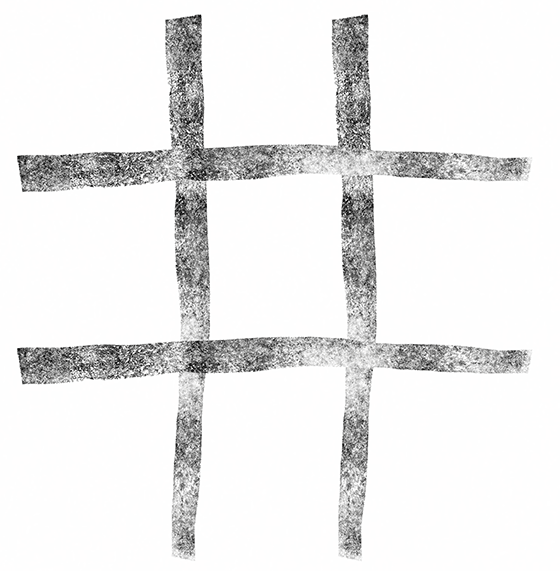
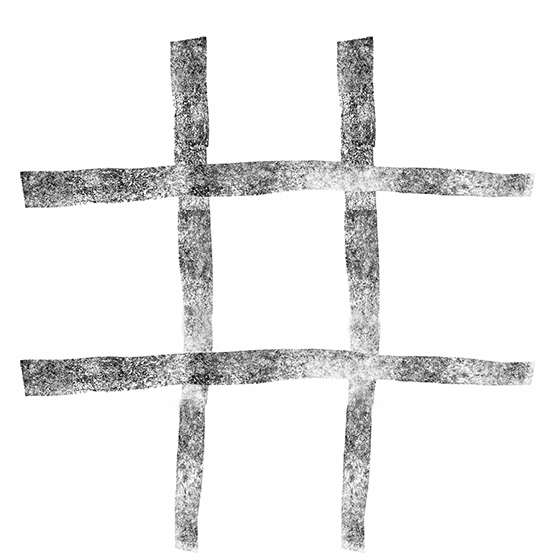
now player can add X in the selected cell

Changed region(s): [[0.0304, 0.0, 0.9714, 1.0]]

diff --git a/assets/js/play.js b/assets/js/play.js
@@ -1,64 +1,104 @@
 /* globals game */
 
+// let playState = {
+//   create () {
+//     // set game background image
+//     this.levelBackground = game.add.sprite(0, 0, 'levelBackground')
+//
+//     // mouse events
+//     game.input.mouse.capture = true
+//   },
+//   update () {
+//     if (game.input.activePointer.leftButton.isDown) {
+//       // first row, first cell
+//       if (game.input.mousePointer.x < 200 && game.input.mousePointer.y < 200) {
+//         this.createX(100, 100)
+//       }
+//
+//       // first row, second cell
+//       if ((game.input.mousePointer.x > 200 && game.input.mousePointer.x < 400) && game.input.mousePointer.y < 200) {
+//         this.createX(270, 100)
+//       }
+//
+//       // first row, second cell
+//       if ((game.input.mousePointer.x > 400 && game.input.mousePointer.x < 600) && game.input.mousePointer.y < 200) {
+//         this.createX(470, 100)
+//       }
+//
+//       // second row, first cell
+//       if ((game.input.mousePointer.x < 200) && (game.input.mousePointer.y > 200 && game.input.mousePointer.y < 400)) {
+//         this.createX(100, 260)
+//       }
+//
+//       // second row, second cell
+//       if ((game.input.mousePointer.x > 200 && game.input.mousePointer.x < 400) && (game.input.mousePointer.y > 200 && game.input.mousePointer.y < 400)) {
+//         this.createX(260, 270)
+//       }
+//
+//       // second row, third cell
+//       if ((game.input.mousePointer.x > 400 && game.input.mousePointer.x < 600) && (game.input.mousePointer.y > 200 && game.input.mousePointer.y < 400)) {
+//         this.createX(440, 275)
+//       }
+//
+//       // third row, third cell
+//       if ((game.input.mousePointer.x < 200) && (game.input.mousePointer.y > 400 && game.input.mousePointer.y < 600)) {
+//         this.createX(100, 470)
+//       }
+//
+//       // third row, second cell
+//       if ((game.input.mousePointer.x > 200 && game.input.mousePointer.x < 400) && (game.input.mousePointer.y > 400 && game.input.mousePointer.y < 600)) {
+//         this.createX(260, 455)
+//       }
+//
+//       // third row, third cell
+//       if ((game.input.mousePointer.x > 400 && game.input.mousePointer.x < 600) && (game.input.mousePointer.y > 400 && game.input.mousePointer.y < 600)) {
+//         this.createX(460, 475)
+//       }
+//     }
+//   },
+//   // x and y coordinates of mouse pointer
+//   createX (x, y) {
+//     this.x = game.add.sprite(x, y, 'x')
+//     this.x.anchor.setTo(0.5, 0.5)
+//   }
+// }
+
 let playState = {
   create () {
     // set game background image
     this.levelBackground = game.add.sprite(0, 0, 'levelBackground')
 
-    // mouse events
-    game.input.mouse.capture = true
-  },
-  update () {
-    if (game.input.activePointer.leftButton.isDown) {
-      // first row, first cell
-      if (game.input.mousePointer.x < 200 && game.input.mousePointer.y < 200) {
-        this.createX(100, 100)
-      }
+    this.cellWidth = 186
+    this.cellHeight = 186
 
-      // first row, second cell
-      if ((game.input.mousePointer.x > 200 && game.input.mousePointer.x < 400) && game.input.mousePointer.y < 200) {
-        this.createX(270, 100)
-      }
+    this.template = [
+      [null, null, null],
+      [null, null, null],
+      [null, null, null]
+    ]
 
-      // first row, second cell
-      if ((game.input.mousePointer.x > 400 && game.input.mousePointer.x < 600) && game.input.mousePointer.y < 200) {
-        this.createX(470, 100)
-      }
+    this.cells = game.add.group()
 
-      // second row, first cell
-      if ((game.input.mousePointer.x < 200) && (game.input.mousePointer.y > 200 && game.input.mousePointer.y < 400)) {
-        this.createX(100, 260)
-      }
-
-      // second row, second cell
-      if ((game.input.mousePointer.x > 200 && game.input.mousePointer.x < 400) && (game.input.mousePointer.y > 200 && game.input.mousePointer.y < 400)) {
-        this.createX(260, 270)
-      }
-
-      // second row, third cell
-      if ((game.input.mousePointer.x > 400 && game.input.mousePointer.x < 600) && (game.input.mousePointer.y > 200 && game.input.mousePointer.y < 400)) {
-        this.createX(440, 275)
-      }
-
-      // third row, third cell
-      if ((game.input.mousePointer.x < 200) && (game.input.mousePointer.y > 400 && game.input.mousePointer.y < 600)) {
-        this.createX(100, 470)
-      }
-
-      // third row, second cell
-      if ((game.input.mousePointer.x > 200 && game.input.mousePointer.x < 400) && (game.input.mousePointer.y > 400 && game.input.mousePointer.y < 600)) {
-        this.createX(260, 455)
-      }
-
-      // third row, third cell
-      if ((game.input.mousePointer.x > 400 && game.input.mousePointer.x < 600) && (game.input.mousePointer.y > 400 && game.input.mousePointer.y < 600)) {
-        this.createX(460, 475)
+    for (let i = 0; i < this.template.length; i++) {
+      for (let j = 0; j < this.template.length; j++) {
+        let cell = this.cells.create(i * this.cellWidth, j * this.cellHeight, 'cell')
+        cell.inputEnabled = true
+        cell.events.onInputDown.add(this.setX, this)
       }
     }
   },
-  // x and y coordinates of mouse pointer
-  createX (x, y) {
-    this.x = game.add.sprite(x, y, 'x')
-    this.x.anchor.setTo(0.5, 0.5)
+  update () {},
+  setX () {
+    // Figure out what position on the grid that translates to
+    let hoverPosX = Math.floor(game.input.x / this.cellWidth)
+    let hoverPosY = Math.floor(game.input.y / this.cellHeight)
+
+    this.template[hoverPosX][hoverPosY] = 'x'
+
+    let spriteX = game.add.image(hoverPosX * this.cellWidth, hoverPosY * this.cellHeight, 'x')
+
+    console.log(this.template)
+
+    return spriteX
   }
 }

diff --git a/assets/js/load.js b/assets/js/load.js
@@ -8,6 +8,8 @@ let loadState = {
     game.load.image('levelBackground', 'assets/images/level-background.png')
     game.load.image('x', 'assets/images/x.png')
     game.load.image('o', 'assets/images/o.png')
+
+    game.load.image('cell', 'assets/images/cell.png')
     // load game audio assets
     // game.load.audio('bgMusic', ['assets/audio/music.mp3', 'assets/audio/music.ogg'])
     // game.load.audio('paddleTouch', ['assets/audio/paddle.mp3', 'assets/audio/paddle.ogg'])

diff --git a/assets/js/game.js b/assets/js/game.js
@@ -1,6 +1,6 @@
 /* globals Phaser */
 
-let game = new Phaser.Game(560, 586, Phaser.AUTO)
+let game = new Phaser.Game(560, 560, Phaser.AUTO)
 
 game.state.add('boot', bootState)
 game.state.add('load', loadState)
